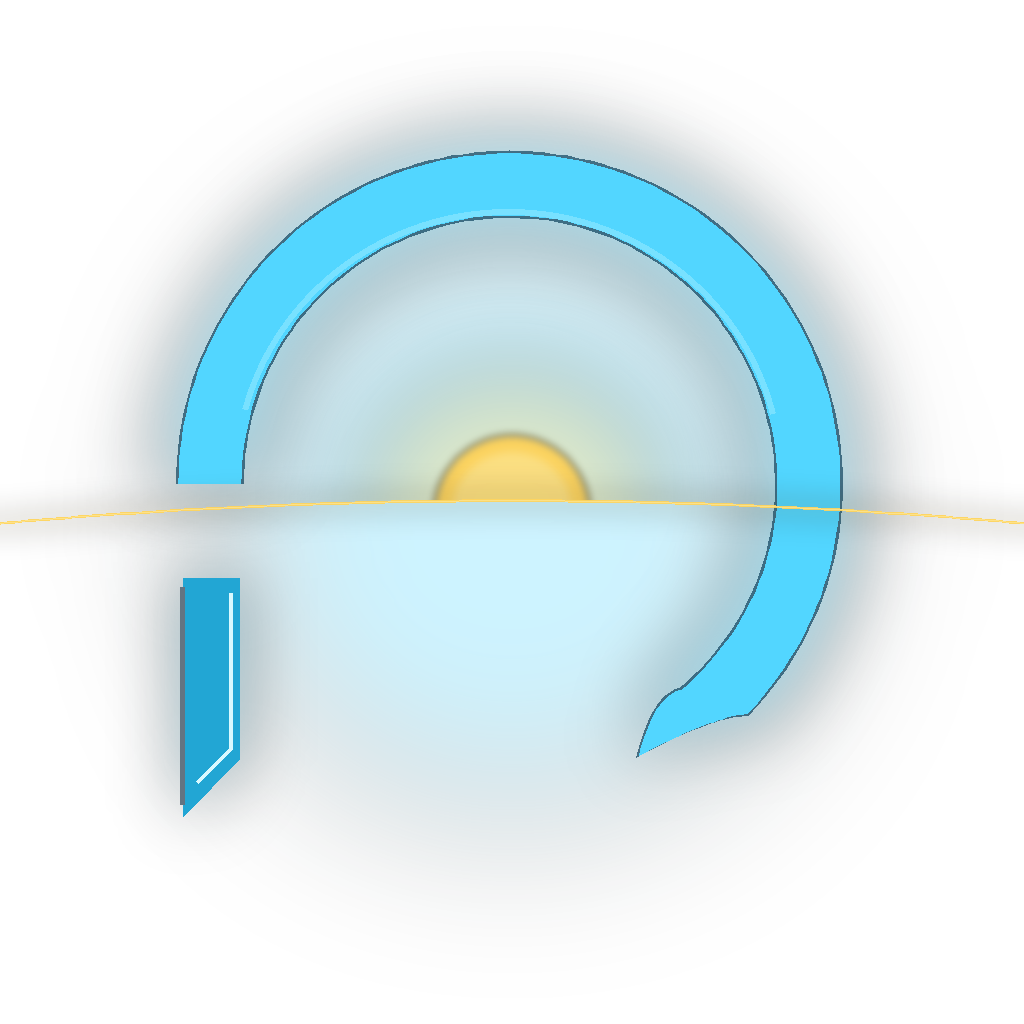
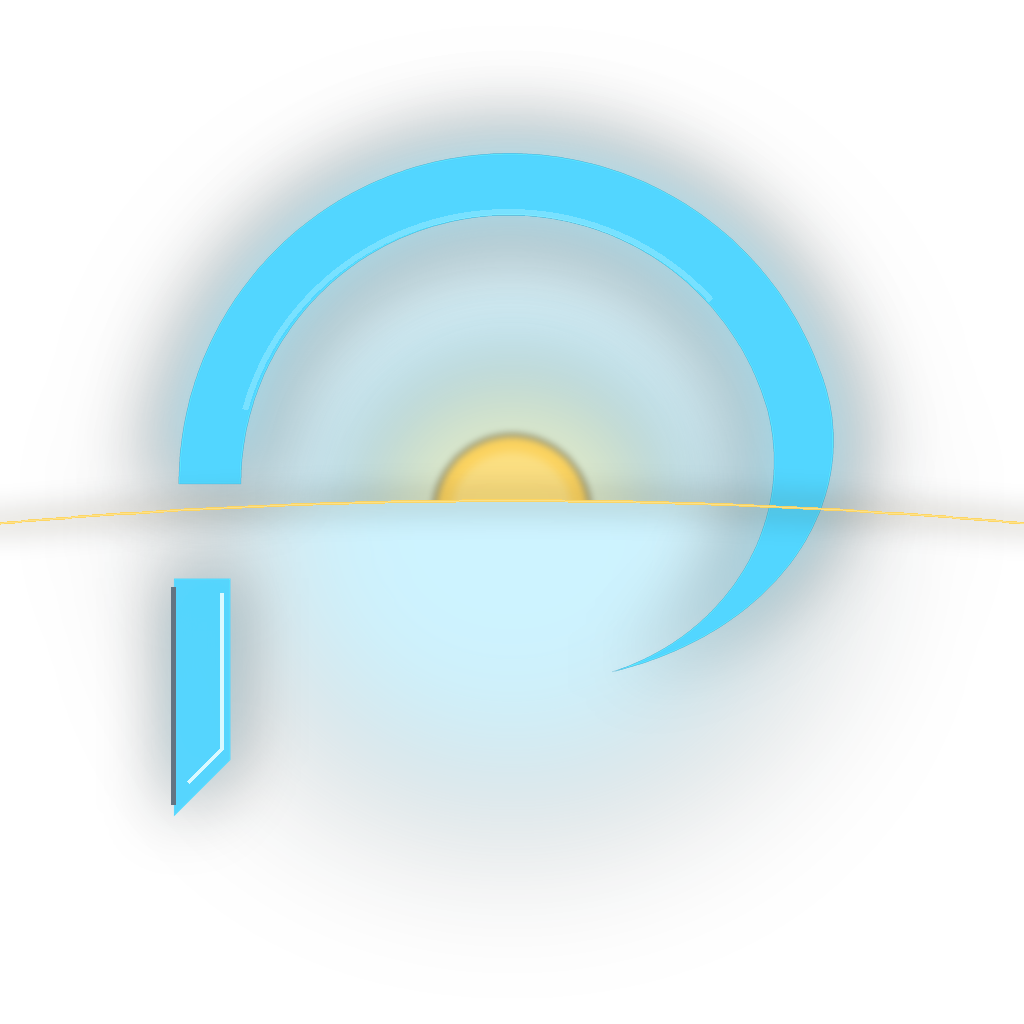
Refine PulseMark v2 crescent geometry

diff --git a/apps/universal/scripts/generate_app_icons.py b/apps/universal/scripts/generate_app_icons.py
@@ -89,6 +89,30 @@ def draw_smooth_line(
     image.alpha_composite(layer)
 
 
+def scale_points(points: list[tuple[float, float]], scale: int) -> list[tuple[float, float]]:
+    return [(x * scale, y * scale) for x, y in points]
+
+
+def draw_antialiased_polygon(
+    image: Image.Image,
+    points: list[tuple[float, float]],
+    color: tuple[int, int, int, int],
+    blur_radius: int = 0,
+    scale: int = 4,
+) -> None:
+    if blur_radius:
+        layer = make_canvas(image.size[0])
+        ImageDraw.Draw(layer).polygon(points, fill=color)
+        layer = layer.filter(ImageFilter.GaussianBlur(blur_radius))
+        image.alpha_composite(layer)
+        return
+
+    layer = make_canvas(image.size[0] * scale)
+    ImageDraw.Draw(layer).polygon(scale_points(points, scale), fill=color)
+    layer = layer.resize(image.size, Image.Resampling.LANCZOS)
+    image.alpha_composite(layer)
+
+
 def draw_arc_stroke(
     image: Image.Image,
     bbox: tuple[float, float, float, float],
@@ -117,9 +141,10 @@ def arc_point(
     return (center_x + radius_x * math.cos(radians), center_y + radius_y * math.sin(radians))
 
 
-def quadratic_curve(
+def cubic_curve(
     start: tuple[float, float],
-    control: tuple[float, float],
+    control_one: tuple[float, float],
+    control_two: tuple[float, float],
     end: tuple[float, float],
     steps: int,
 ) -> list[tuple[float, float]]:
@@ -129,11 +154,123 @@ def quadratic_curve(
         inverse = 1 - t
         points.append(
             (
-                inverse * inverse * start[0] + 2 * inverse * t * control[0] + t * t * end[0],
-                inverse * inverse * start[1] + 2 * inverse * t * control[1] + t * t * end[1],
+                inverse**3 * start[0]
+                + 3 * inverse * inverse * t * control_one[0]
+                + 3 * inverse * t * t * control_two[0]
+                + t**3 * end[0],
+                inverse**3 * start[1]
+                + 3 * inverse * inverse * t * control_one[1]
+                + 3 * inverse * t * t * control_two[1]
+                + t**3 * end[1],
             )
         )
     return points
+
+
+def ellipse_points(
+    center_x: float,
+    center_y: float,
+    radius_x: float,
+    radius_y: float,
+    start_degrees: float,
+    end_degrees: float,
+    steps: int,
+) -> list[tuple[float, float]]:
+    return [
+        arc_point(
+            center_x,
+            center_y,
+            radius_x,
+            radius_y,
+            start_degrees + (end_degrees - start_degrees) * index / steps,
+        )
+        for index in range(steps + 1)
+    ]
+
+
+def ellipse_through_points(
+    start: tuple[float, float],
+    end: tuple[float, float],
+    start_degrees: float,
+    end_degrees: float,
+    steps: int,
+) -> list[tuple[float, float]]:
+    start_cos = math.cos(math.radians(start_degrees))
+    end_cos = math.cos(math.radians(end_degrees))
+    start_sin = math.sin(math.radians(start_degrees))
+    end_sin = math.sin(math.radians(end_degrees))
+    center_x = (start[0] * end_cos - end[0] * start_cos) / (end_cos - start_cos)
+    radius_x = (start[0] - center_x) / start_cos
+    center_y = (start[1] * end_sin - end[1] * start_sin) / (end_sin - start_sin)
+    radius_y = (start[1] - center_y) / start_sin
+    return ellipse_points(center_x, center_y, radius_x, radius_y, start_degrees, end_degrees, steps)
+
+
+def horizon_cut_p_arc_points(
+    size: int,
+    bbox: tuple[float, float, float, float],
+    start_degrees: float,
+    width: int,
+) -> list[tuple[float, float]]:
+    left, top, right, bottom = bbox
+    center_x = (left + right) / 2
+    center_y = (top + bottom) / 2
+    radius_x = (right - left) / 2
+    radius_y = (bottom - top) / 2
+    half_width = width / 2
+    steps = 192
+    outer_join_degrees = 344
+    inner_join_degrees = 344
+    outer = ellipse_points(
+        center_x,
+        center_y,
+        radius_x + half_width,
+        radius_y + half_width,
+        start_degrees,
+        outer_join_degrees,
+        steps,
+    )
+    inner = ellipse_points(
+        center_x,
+        center_y,
+        radius_x - half_width,
+        radius_y - half_width,
+        inner_join_degrees,
+        start_degrees,
+        steps,
+    )
+    top_outer_anchor = arc_point(
+        center_x,
+        center_y,
+        radius_x + half_width,
+        radius_y + half_width,
+        outer_join_degrees,
+    )
+    top_inner_anchor = arc_point(
+        center_x,
+        center_y,
+        radius_x - half_width,
+        radius_y - half_width,
+        inner_join_degrees,
+    )
+    tip = (size * 0.598, size * 0.656)
+    outer_crescent = ellipse_through_points(top_outer_anchor, tip, -11.5, 73.0, 112)
+    inner_crescent = ellipse_through_points(tip, top_inner_anchor, 71.0, -13.5, 112)
+    return [*outer, *outer_crescent[1:], *inner_crescent[1:], *inner[1:]]
+
+
+def svg_number(value: float) -> str:
+    rounded = round(value, 1)
+    if rounded == int(rounded):
+        return str(int(rounded))
+    return f"{rounded:.1f}"
+
+
+def svg_polygon_path(points: list[tuple[float, float]]) -> str:
+    first, *rest = points
+    path = f"M{svg_number(first[0])} {svg_number(first[1])}"
+    path += "".join(f"L{svg_number(x)} {svg_number(y)}" for x, y in rest)
+    return f"{path}Z"
 
 
 def draw_tapered_arc(
@@ -145,42 +282,12 @@ def draw_tapered_arc(
     width: int,
     blur_radius: int = 0,
 ) -> None:
-    left, top, right, bottom = bbox
-    center_x = (left + right) / 2
-    center_y = (top + bottom) / 2
-    radius_x = (right - left) / 2
-    radius_y = (bottom - top) / 2
-    half_width = width / 2
-    steps = 112
-    outer_tail_start = end_degrees - 14
-    inner_tail_start = end_degrees - 8
-    outer_angles = [start_degrees + (outer_tail_start - start_degrees) * i / steps for i in range(steps + 1)]
-    inner_angles = [start_degrees + (inner_tail_start - start_degrees) * i / steps for i in range(steps + 1)]
-    outer = [
-        arc_point(center_x, center_y, radius_x + half_width, radius_y + half_width, angle)
-        for angle in outer_angles
-    ]
-    inner = [
-        arc_point(center_x, center_y, radius_x - half_width, radius_y - half_width, angle)
-        for angle in reversed(inner_angles)
-    ]
-    tangent_radians = math.radians(end_degrees)
-    tip_width = min(width, 68)
-    tip = (
-        center_x + radius_x * math.cos(tangent_radians) - math.sin(tangent_radians) * tip_width * 0.55,
-        center_y + radius_y * math.sin(tangent_radians) + math.cos(tangent_radians) * tip_width * 0.55,
+    draw_antialiased_polygon(
+        image,
+        horizon_cut_p_arc_points(image.size[0], bbox, start_degrees, width),
+        color,
+        blur_radius,
     )
-    control_width = min(width, 68)
-    outer_control = (tip[0] + control_width * 1.05, tip[1] - control_width * 0.58)
-    inner_control = (tip[0] + control_width * 0.22, tip[1] - control_width * 0.95)
-    outer_tail = quadratic_curve(outer[-1], outer_control, tip, 22)
-    inner_tail = quadratic_curve(tip, inner_control, inner[0], 18)
-    layer = make_canvas(image.size[0])
-    draw = ImageDraw.Draw(layer)
-    draw.polygon([*outer, *outer_tail[1:], *inner_tail[1:], *inner[1:]], fill=color)
-    if blur_radius:
-        layer = layer.filter(ImageFilter.GaussianBlur(blur_radius))
-    image.alpha_composite(layer)
 
 
 def horizon_y(size: int, x: float) -> float:
@@ -210,35 +317,35 @@ def draw_horizon_cut_motif(image: Image.Image, size: int, pulse_alpha: int = 255
     arc_width = max(34, int(size * 0.061))
     arc_bbox = (size * 0.205, size * 0.18, size * 0.79, size * 0.765)
 
-    draw_tapered_arc(image, arc_bbox, 180, 418, hex_rgba(CYAN, min(106, pulse_alpha)), arc_width + max(28, size // 22), int(size * 0.034))
-    draw_tapered_arc(image, arc_bbox, 180, 418, hex_rgba("#083c58", min(172, pulse_alpha)), arc_width + max(4, size // 180))
-    draw_tapered_arc(image, arc_bbox, 180, 418, hex_rgba(CYAN, min(255, pulse_alpha)), arc_width)
+    draw_tapered_arc(image, arc_bbox, 180, 404, hex_rgba(CYAN, min(106, pulse_alpha)), arc_width + max(28, size // 22), int(size * 0.034))
+    draw_tapered_arc(image, arc_bbox, 180, 404, hex_rgba("#083c58", min(150, pulse_alpha)), arc_width)
+    draw_tapered_arc(image, arc_bbox, 180, 404, hex_rgba(CYAN, min(255, pulse_alpha)), arc_width)
     draw_arc_stroke(
         image,
         (size * 0.228, size * 0.205, size * 0.765, size * 0.73),
         195,
-        346,
+        318,
         hex_rgba("#bbf5ff", min(92, pulse_alpha)),
         max(4, size // 150),
     )
 
     stem = [
-        (size * 0.179, size * 0.565),
-        (size * 0.234, size * 0.565),
-        (size * 0.234, size * 0.742),
-        (size * 0.179, size * 0.797),
+        (size * 0.17, size * 0.565),
+        (size * 0.225, size * 0.565),
+        (size * 0.225, size * 0.742),
+        (size * 0.17, size * 0.797),
     ]
     stem_glow = make_canvas(size)
     ImageDraw.Draw(stem_glow).polygon(stem, fill=hex_rgba(CYAN, min(132, pulse_alpha)))
     image.alpha_composite(stem_glow.filter(ImageFilter.GaussianBlur(int(size * 0.032))))
-    draw.polygon(stem, fill=hex_rgba("#1aa3d2", min(246, pulse_alpha)))
+    draw_antialiased_polygon(image, stem, hex_rgba(CYAN, min(246, pulse_alpha)))
     draw.line(
-        [(size * 0.225, size * 0.58), (size * 0.225, size * 0.732), (size * 0.193, size * 0.764)],
+        [(size * 0.216, size * 0.58), (size * 0.216, size * 0.732), (size * 0.184, size * 0.764)],
         fill=hex_rgba("#9eefff", min(100, pulse_alpha)),
         width=max(3, size // 210),
     )
     draw.line(
-        [(size * 0.178, size * 0.574), (size * 0.178, size * 0.786)],
+        [(size * 0.169, size * 0.574), (size * 0.169, size * 0.786)],
         fill=hex_rgba("#062238", min(160, pulse_alpha)),
         width=max(3, size // 190),
     )
@@ -321,6 +428,24 @@ def build_adaptive_foreground(size: int = 1024) -> Image.Image:
 
 
 def build_master_svg() -> str:
+    size = 1024
+    arc_width = max(34, int(size * 0.061))
+    arc_path = svg_polygon_path(
+        horizon_cut_p_arc_points(
+            size,
+            (size * 0.205, size * 0.18, size * 0.79, size * 0.765),
+            180,
+            arc_width,
+        )
+    )
+    stem_path = svg_polygon_path(
+        [
+            (size * 0.17, size * 0.565),
+            (size * 0.225, size * 0.565),
+            (size * 0.225, size * 0.742),
+            (size * 0.17, size * 0.797),
+        ]
+    )
     return f"""<svg xmlns="http://www.w3.org/2000/svg" viewBox="0 0 1024 1024" role="img" aria-label="PulseMark v2 Horizon Cut P">
   <defs>
     <linearGradient id="tile" x1="120" y1="80" x2="910" y2="960" gradientUnits="userSpaceOnUse">
@@ -353,8 +478,8 @@ def build_master_svg() -> str:
   </defs>
   <rect width="1024" height="1024" rx="230" fill="url(#tile)"/>
   <rect x="61" y="61" width="902" height="902" rx="246" fill="#132033" fill-opacity="0.12" stroke="#f4f7fb" stroke-opacity="0.08" stroke-width="5"/>
-  <path d="M179 497C179 310 326 180 512 180C715 180 845 354 805 556C790 636 752 693 708 719C681 732 655 748 636 758C651 693 665 690 682 690C736 558 756 406 667 247C512 247 366 352 241 497Z" fill="url(#cyanStroke)" filter="url(#cyanGlow)"/>
-  <path d="M183 579H240V760L183 817Z" fill="url(#cyanStroke)" filter="url(#cyanGlow)"/>
+  <path d="{arc_path}" fill="url(#cyanStroke)" filter="url(#cyanGlow)"/>
+  <path d="{stem_path}" fill="url(#cyanStroke)" filter="url(#cyanGlow)"/>
   <circle cx="512" cy="499" r="76" fill="url(#sun)" clip-path="url(#aboveHorizon)" filter="url(#goldGlow)"/>
   <path d="M0 546C238 512 402 501 512 500C686 498 842 511 1024 536" fill="none" stroke="{GOLD}" stroke-width="4" stroke-linecap="round" filter="url(#goldGlow)"/>
 </svg>
